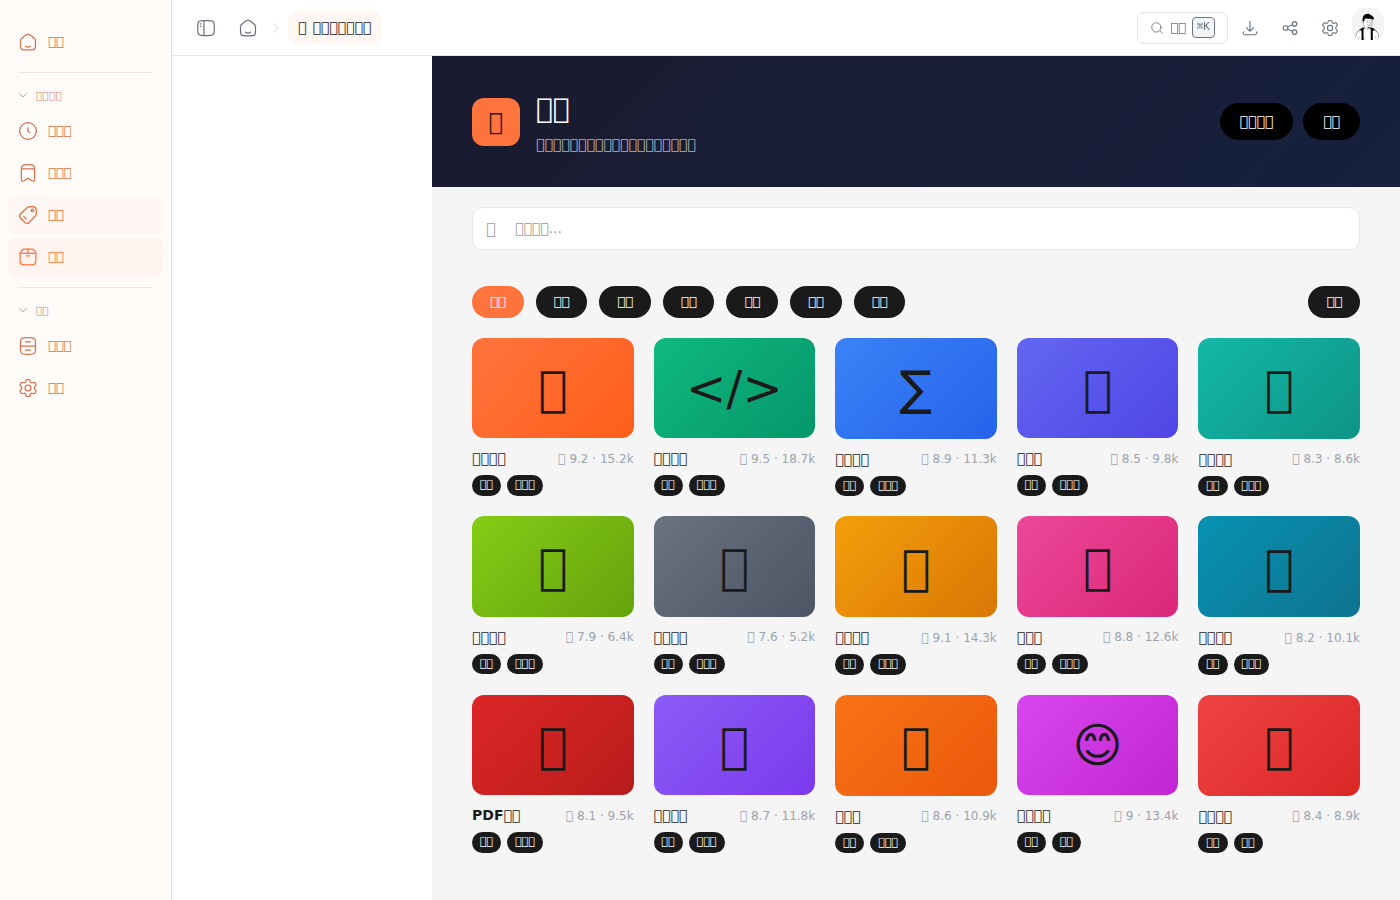
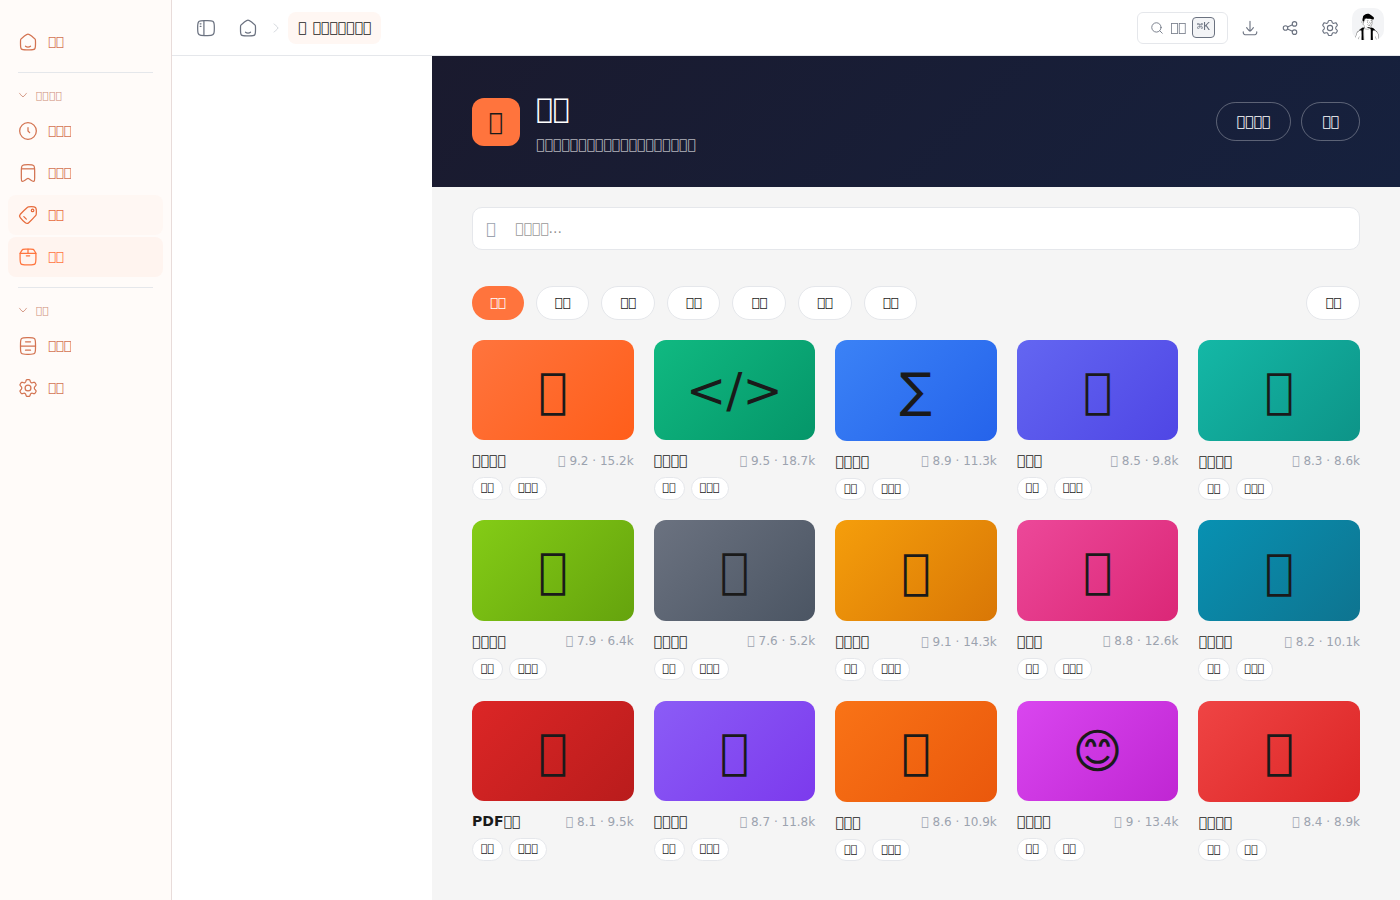
feat: 部署最新上传项目

diff --git a/src/components/ContainerPage.tsx b/src/components/ContainerPage.tsx
@@ -586,8 +586,8 @@ export function ContainerPage() {
           </div>
           {/* Right: action buttons */}
           <div style={{ display: 'flex', gap: 10 }}>
-            <button style={{ padding: '8px 20px', borderRadius: 9999, border: 'none', background: '#000', color: '#fff', fontSize: 14, fontWeight: 500, cursor: 'pointer' }}>{t('container.upload')}</button>
-            <button style={{ padding: '8px 20px', borderRadius: 9999, border: 'none', background: '#000', color: '#fff', fontSize: 14, fontWeight: 500, cursor: 'pointer' }}>{t('container.my')}</button>
+            <button style={{ padding: '8px 20px', borderRadius: 9999, border: '1px solid rgba(255,255,255,0.3)', background: 'transparent', color: '#fff', fontSize: 14, fontWeight: 500, cursor: 'pointer', transition: 'all 0.15s ease' }} onMouseEnter={e => { e.currentTarget.style.background = 'rgba(255,255,255,0.1)'; }} onMouseLeave={e => { e.currentTarget.style.background = 'transparent'; }}>{t('container.upload')}</button>
+            <button style={{ padding: '8px 20px', borderRadius: 9999, border: '1px solid rgba(255,255,255,0.3)', background: 'transparent', color: '#fff', fontSize: 14, fontWeight: 500, cursor: 'pointer', transition: 'all 0.15s ease' }} onMouseEnter={e => { e.currentTarget.style.background = 'rgba(255,255,255,0.1)'; }} onMouseLeave={e => { e.currentTarget.style.background = 'transparent'; }}>{t('container.my')}</button>
           </div>
         </div>
       </div>
@@ -618,19 +618,19 @@ export function ContainerPage() {
               style={{
                 padding: '6px 18px',
                 borderRadius: 9999,
-                border: 'none',
-                background: activeCategory === cat ? '#FF743D' : '#1a1a1a',
-                color: '#fff',
+                background: activeCategory === cat ? '#FF743D' : '#fff',
+                color: activeCategory === cat ? '#fff' : '#1a1a1a',
+                border: activeCategory === cat ? '1px solid #FF743D' : '1px solid #e5e7eb',
                 fontSize: 13,
                 cursor: 'pointer',
-                transition: 'background 0.15s ease',
+                transition: 'all 0.15s ease',
               }}
             >
               {cat}
             </button>
           ))}
         </div>
-        <button style={{ padding: '6px 18px', borderRadius: 9999, border: 'none', background: '#1a1a1a', color: '#fff', fontSize: 13, cursor: 'pointer' }}>{t('container.filter')}</button>
+        <button style={{ padding: '6px 18px', borderRadius: 9999, border: '1px solid #e5e7eb', background: '#fff', color: '#1a1a1a', fontSize: 13, cursor: 'pointer' }}>{t('container.filter')}</button>
       </div>
 
       {/* Card Grid */}
@@ -666,8 +666,8 @@ export function ContainerPage() {
                 </div>
                 {/* Tags */}
                 <div style={{ display: 'flex', gap: 6 }}>
-                  <span style={{ padding: '2px 8px', borderRadius: 9999, background: '#1a1a1a', color: '#fff', fontSize: 11 }}>{item.category}</span>
-                  <span style={{ padding: '2px 8px', borderRadius: 9999, background: '#1a1a1a', color: '#fff', fontSize: 11 }}>{item.scene === 'editor' ? t('container.scene_editor') : item.scene === 'knowledge' ? t('container.scene_knowledge') : t('container.scene_both')}</span>
+                  <span style={{ padding: '2px 8px', borderRadius: 9999, background: '#fff', color: '#1a1a1a', border: '1px solid #e5e7eb', fontSize: 11 }}>{item.category}</span>
+                  <span style={{ padding: '2px 8px', borderRadius: 9999, background: '#fff', color: '#1a1a1a', border: '1px solid #e5e7eb', fontSize: 11 }}>{item.scene === 'editor' ? t('container.scene_editor') : item.scene === 'knowledge' ? t('container.scene_knowledge') : t('container.scene_both')}</span>
                 </div>
               </div>
             ))}
@@ -777,7 +777,7 @@ export function ContainerPage() {
                     padding: '8px 20px',
                     borderRadius: 8,
                     border: 'none',
-                    background: '#000',
+                    background: '#1a1a1a',
                     color: '#fff',
                     fontSize: 14,
                     fontWeight: 600,
@@ -791,6 +791,14 @@ export function ContainerPage() {
                   {t('container.install_btn')}
                 </button>
               </div>
+            </div>
+
+            {/* 简述 section */}
+            <div style={{ padding: '20px 24px 0' }}>
+              <h4 style={{ fontSize: 14, fontWeight: 600, color: '#1a1a1a', margin: '0 0 10px 0' }}>简述</h4>
+              <p style={{ fontSize: 14, color: '#4b5563', lineHeight: 1.7, margin: 0 }}>
+                {selectedItem.description}
+              </p>
             </div>
 
             {/* Preview section */}
